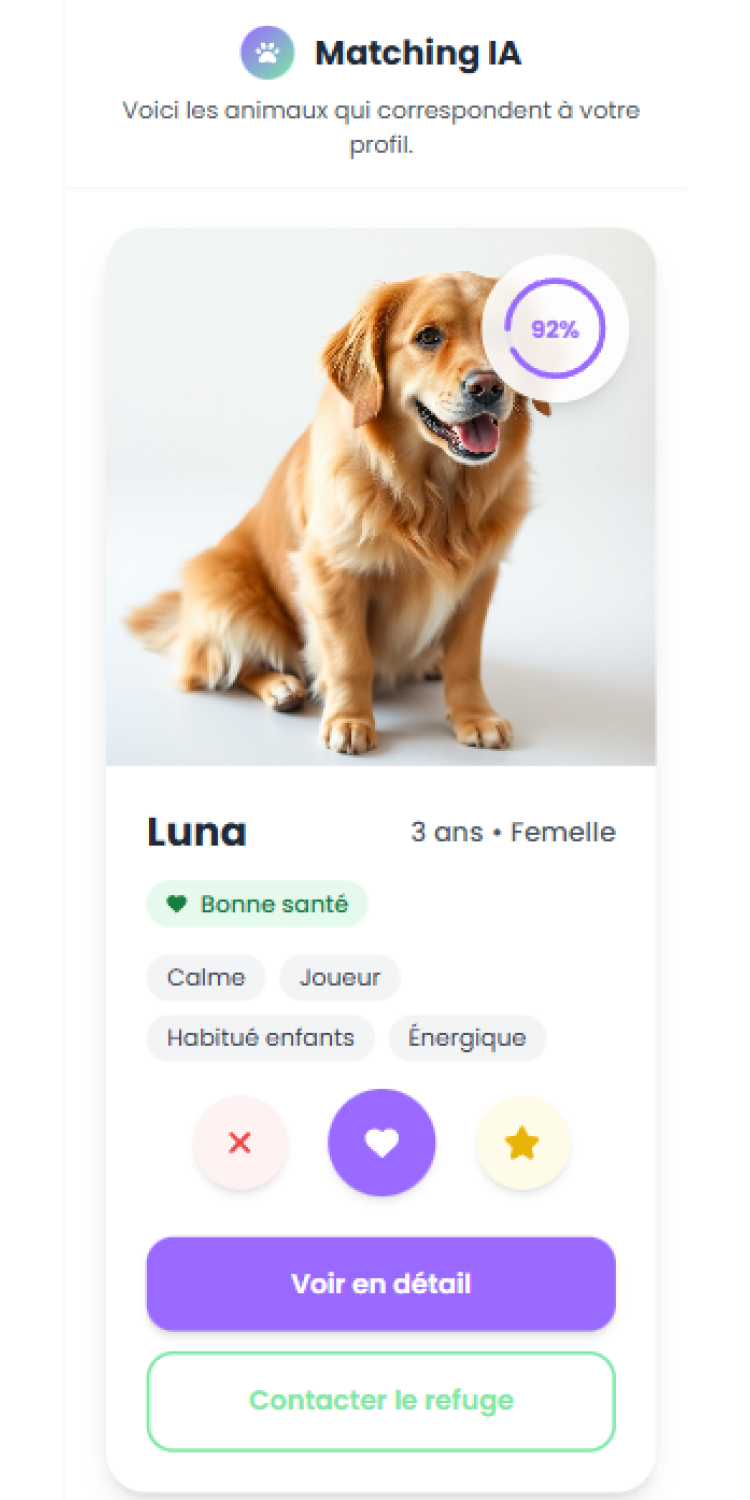
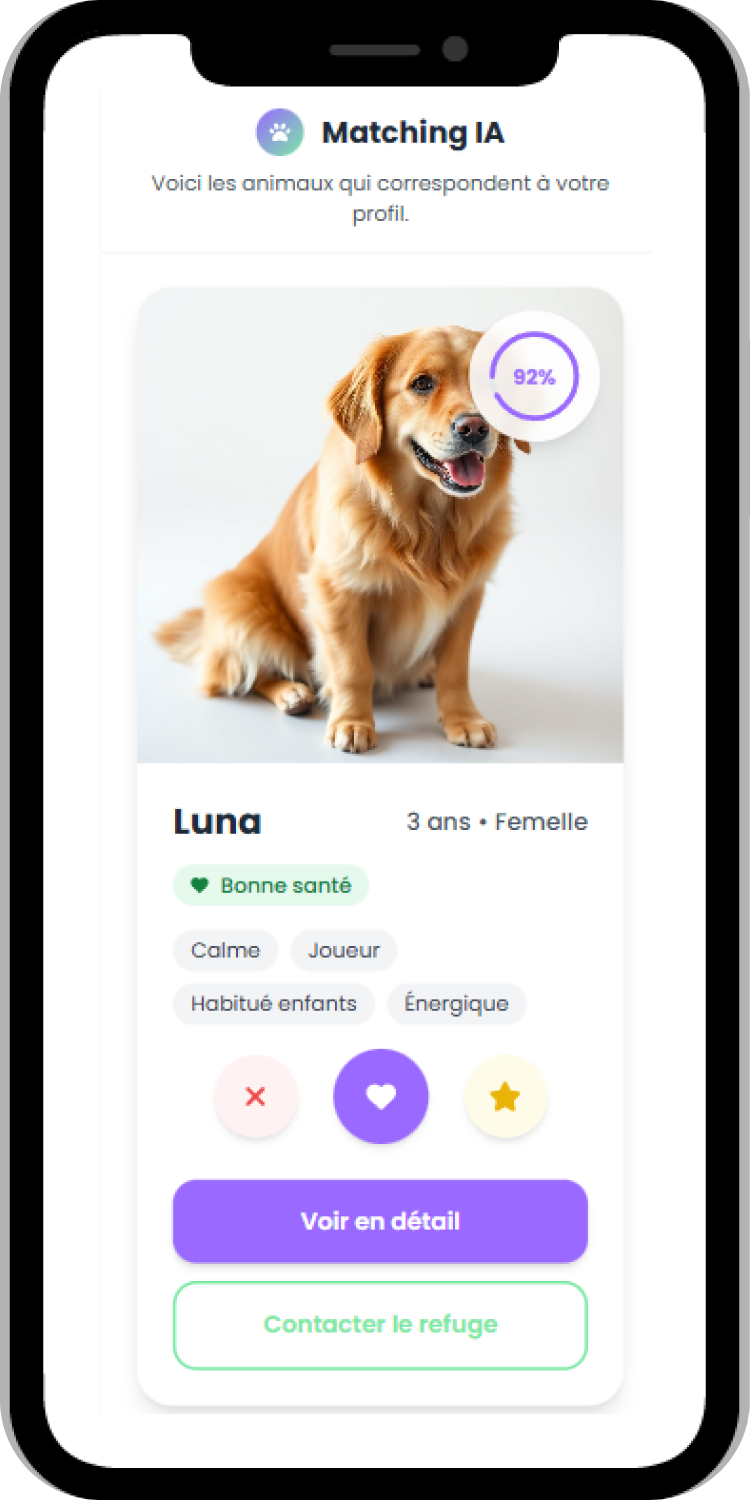
update phone screens

diff --git a/styles.css b/styles.css
@@ -437,11 +437,11 @@ section {
 }
 
 .phone-mockup {
-    width: 280px;
+    /* width: 280px;
     height: 560px;
-    background: var(--blanc);
+    background: var(--blanc); */
     border-radius: 40px;
-    padding: 15px;
+    /* padding: 15px; */
     box-shadow: 0 30px 60px rgba(0, 0, 0, 0.3);
     position: relative;
     transition: transform 0.4s ease;
